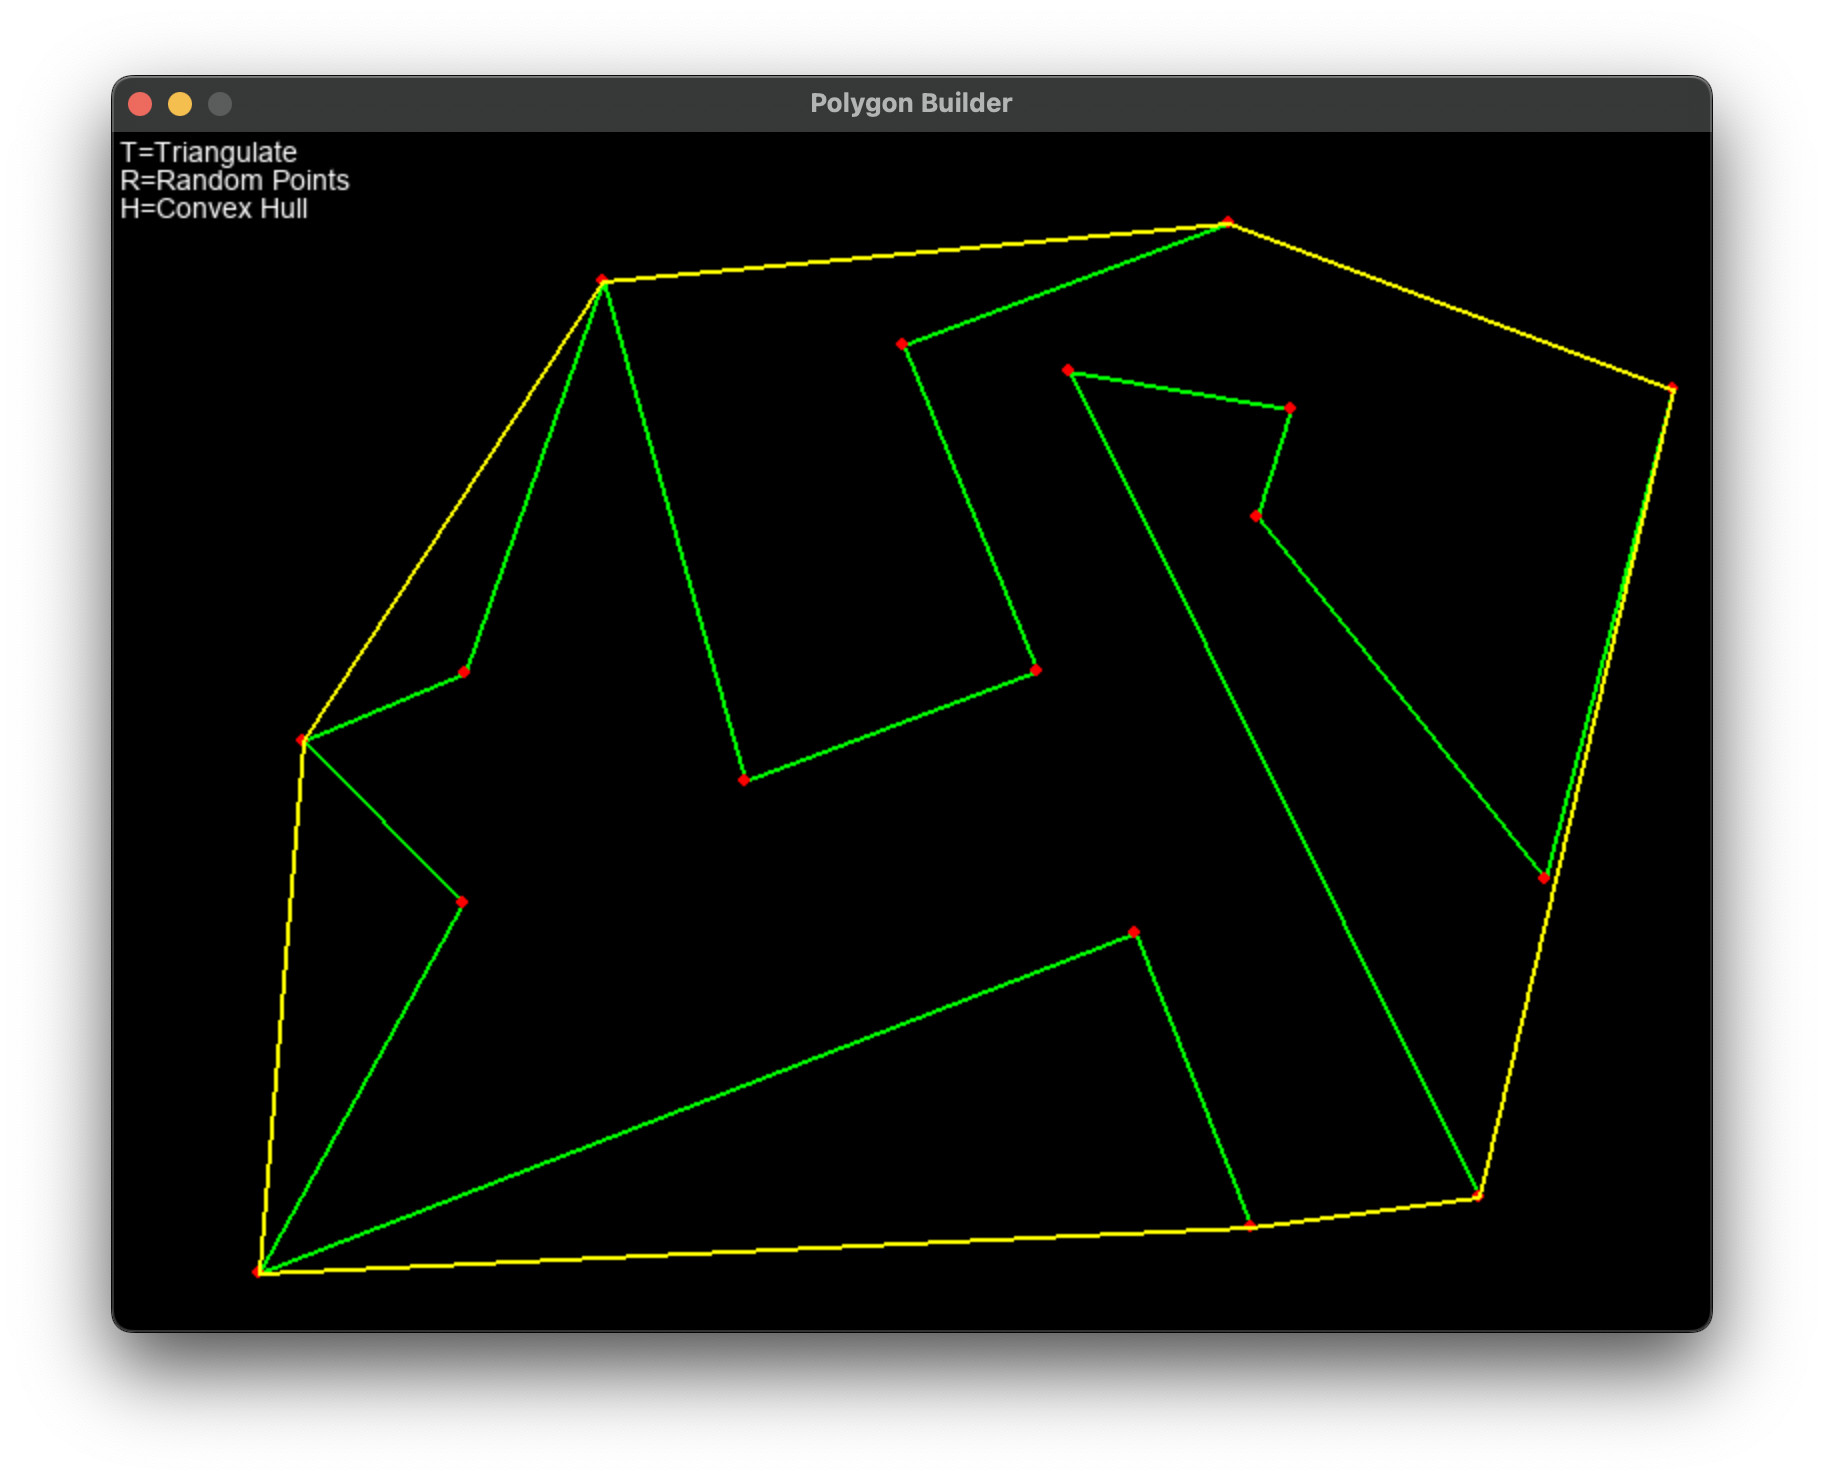
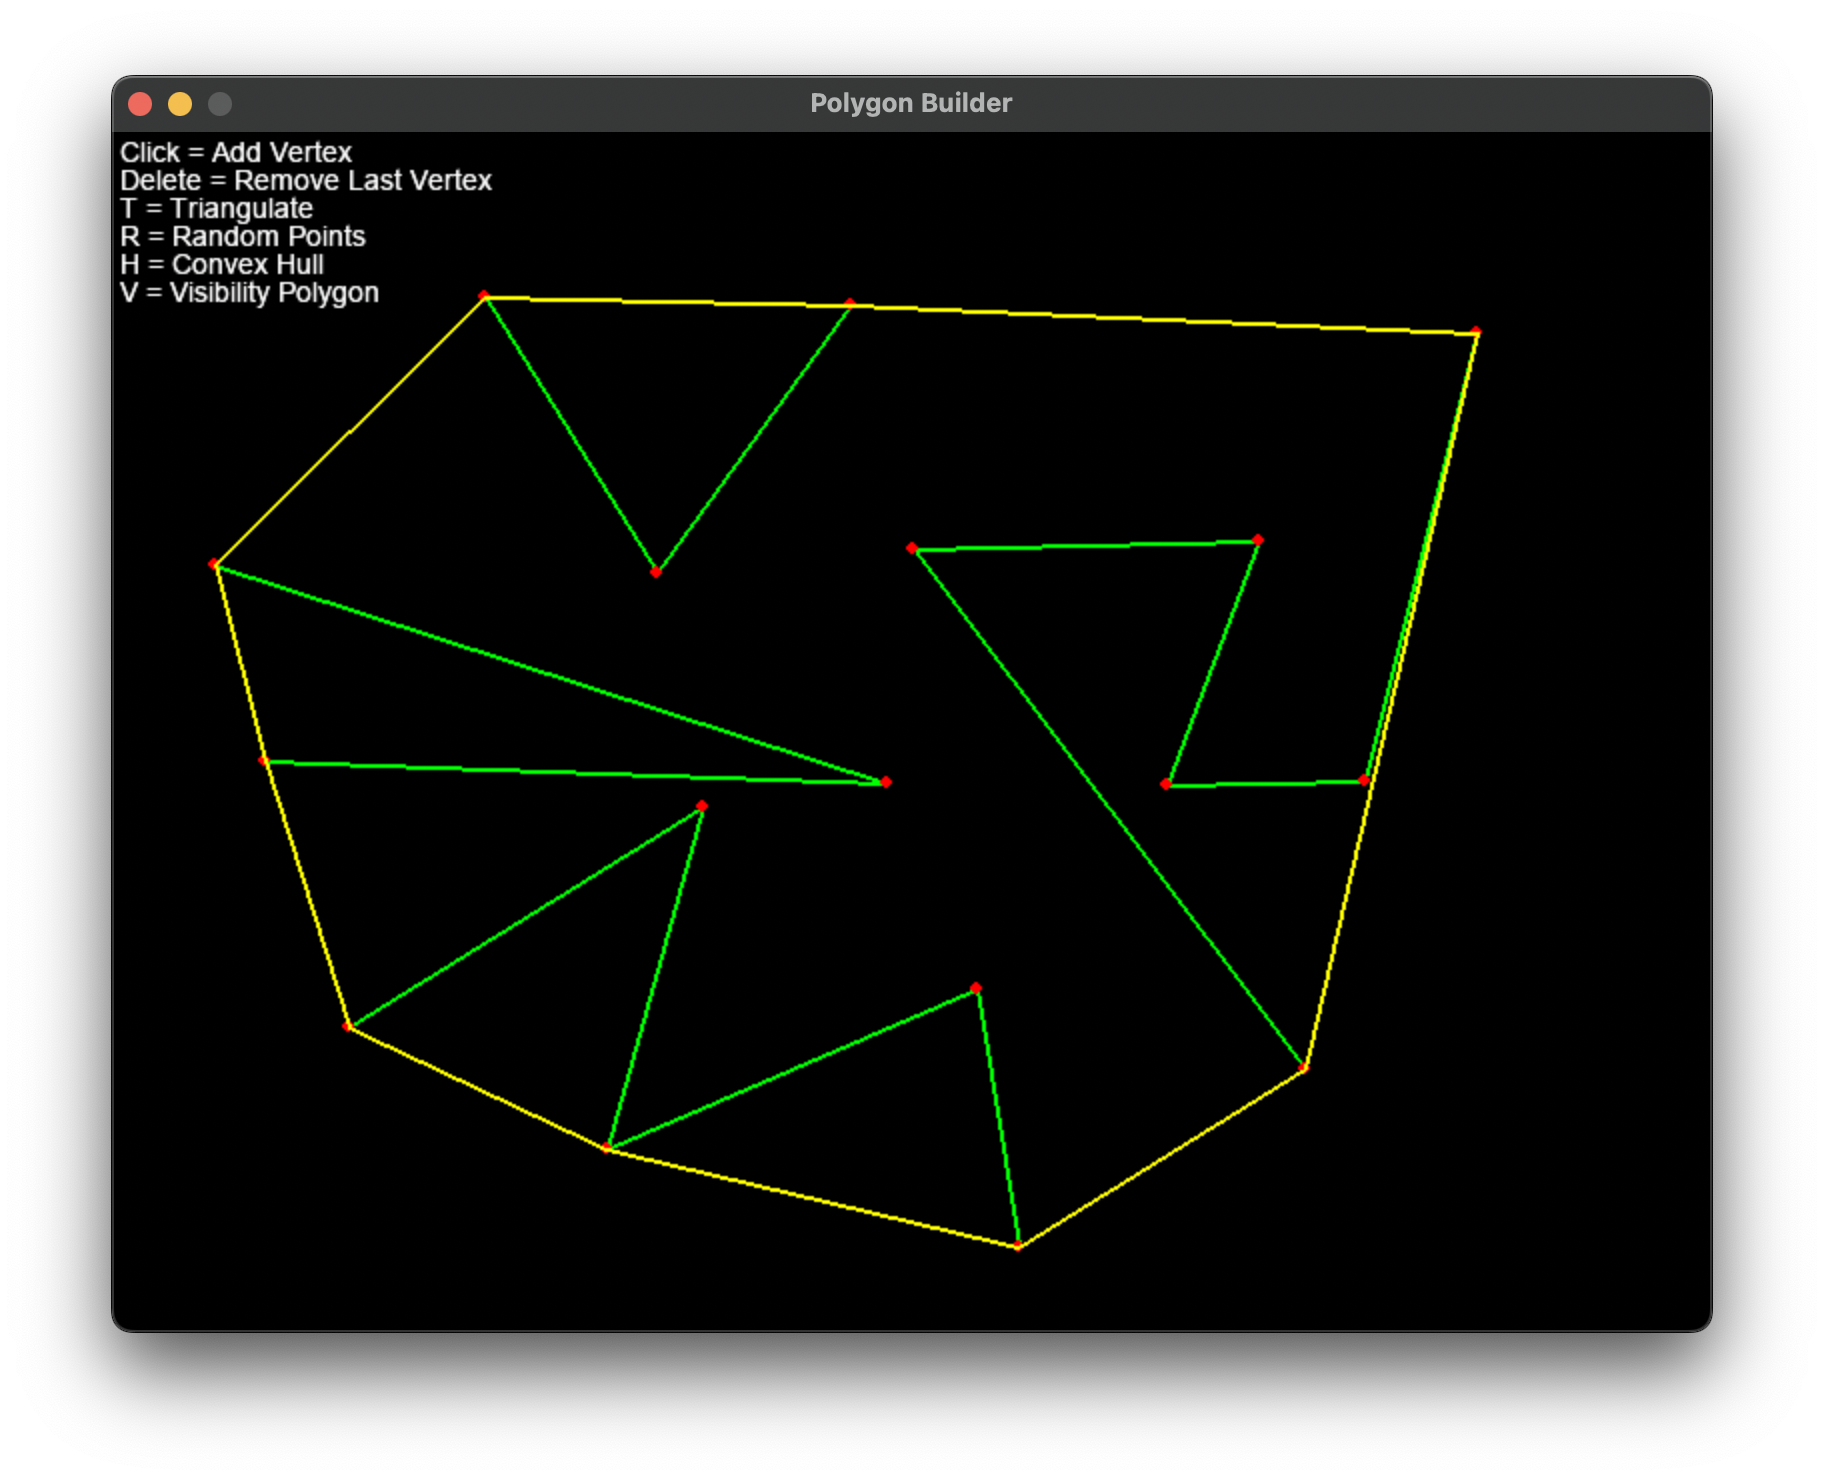
Updated README.md

diff --git a/README.md b/README.md
@@ -15,12 +15,11 @@ A **simple** tool to build **simple** polygons
 - Convex hull algorithms
   - Gift wrapping
   - Graham's scan
+- Visibility polygon
 
 <div align="center">
-<img src="media/triangulation.png" width="49%"/>  
+<img src="media/triangulation.png" width="49%"/> 
 <img src="media/random-points.png" width="49%"/> 
 <img src="media/convex-hull.png" width="49%"/> 
+<img src="media/visibility-polygon.png" width="49%"/> 
 </div>
-
-## To do
-- Point visibility
